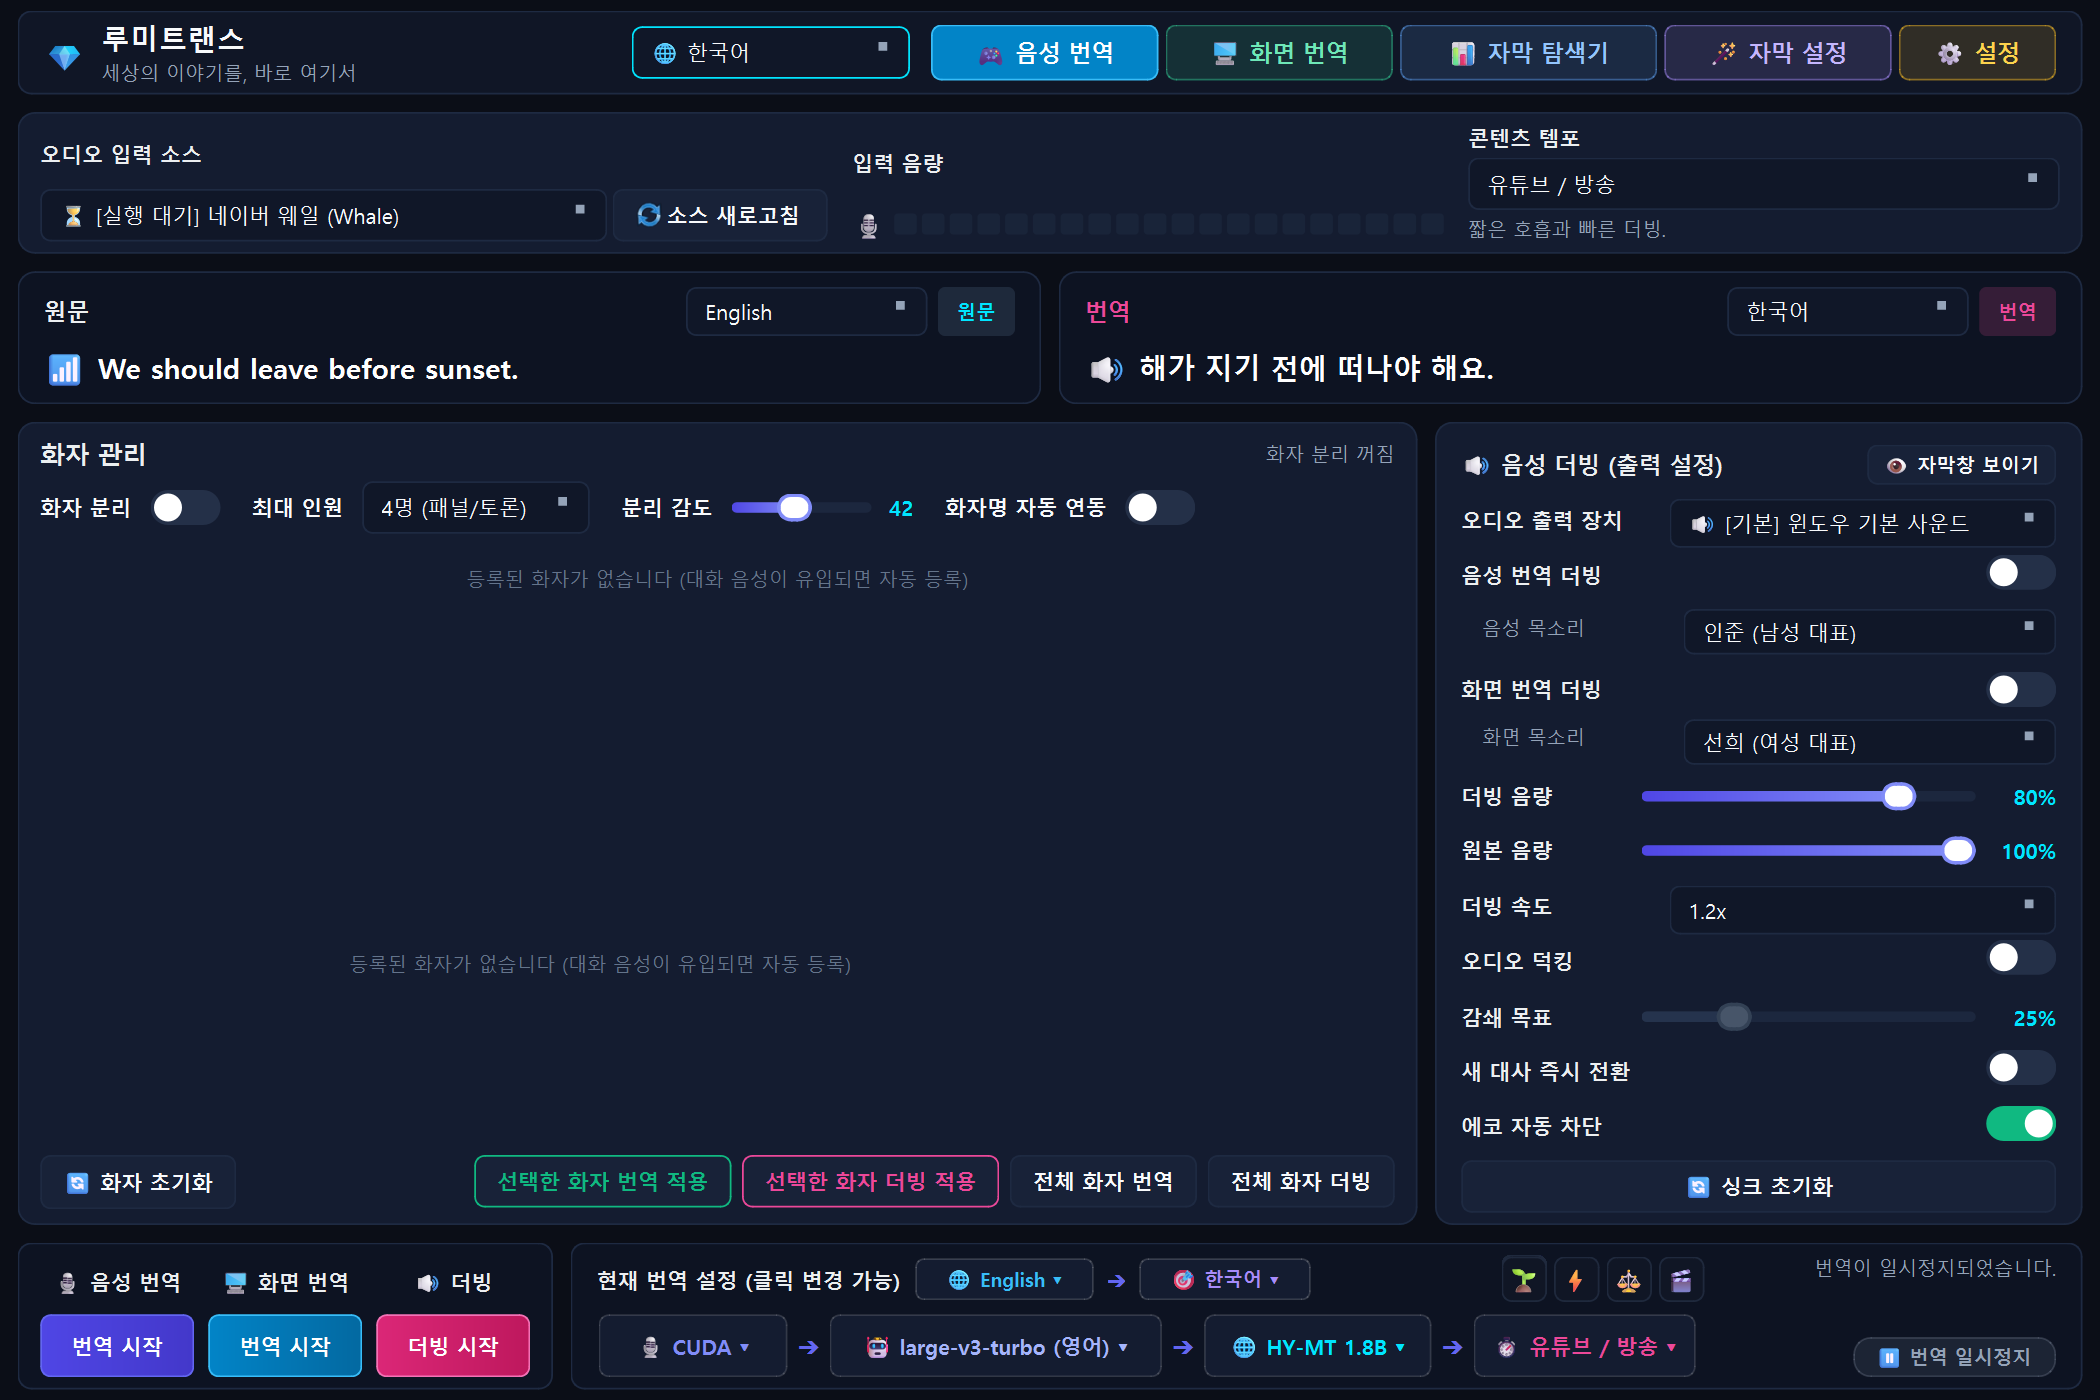
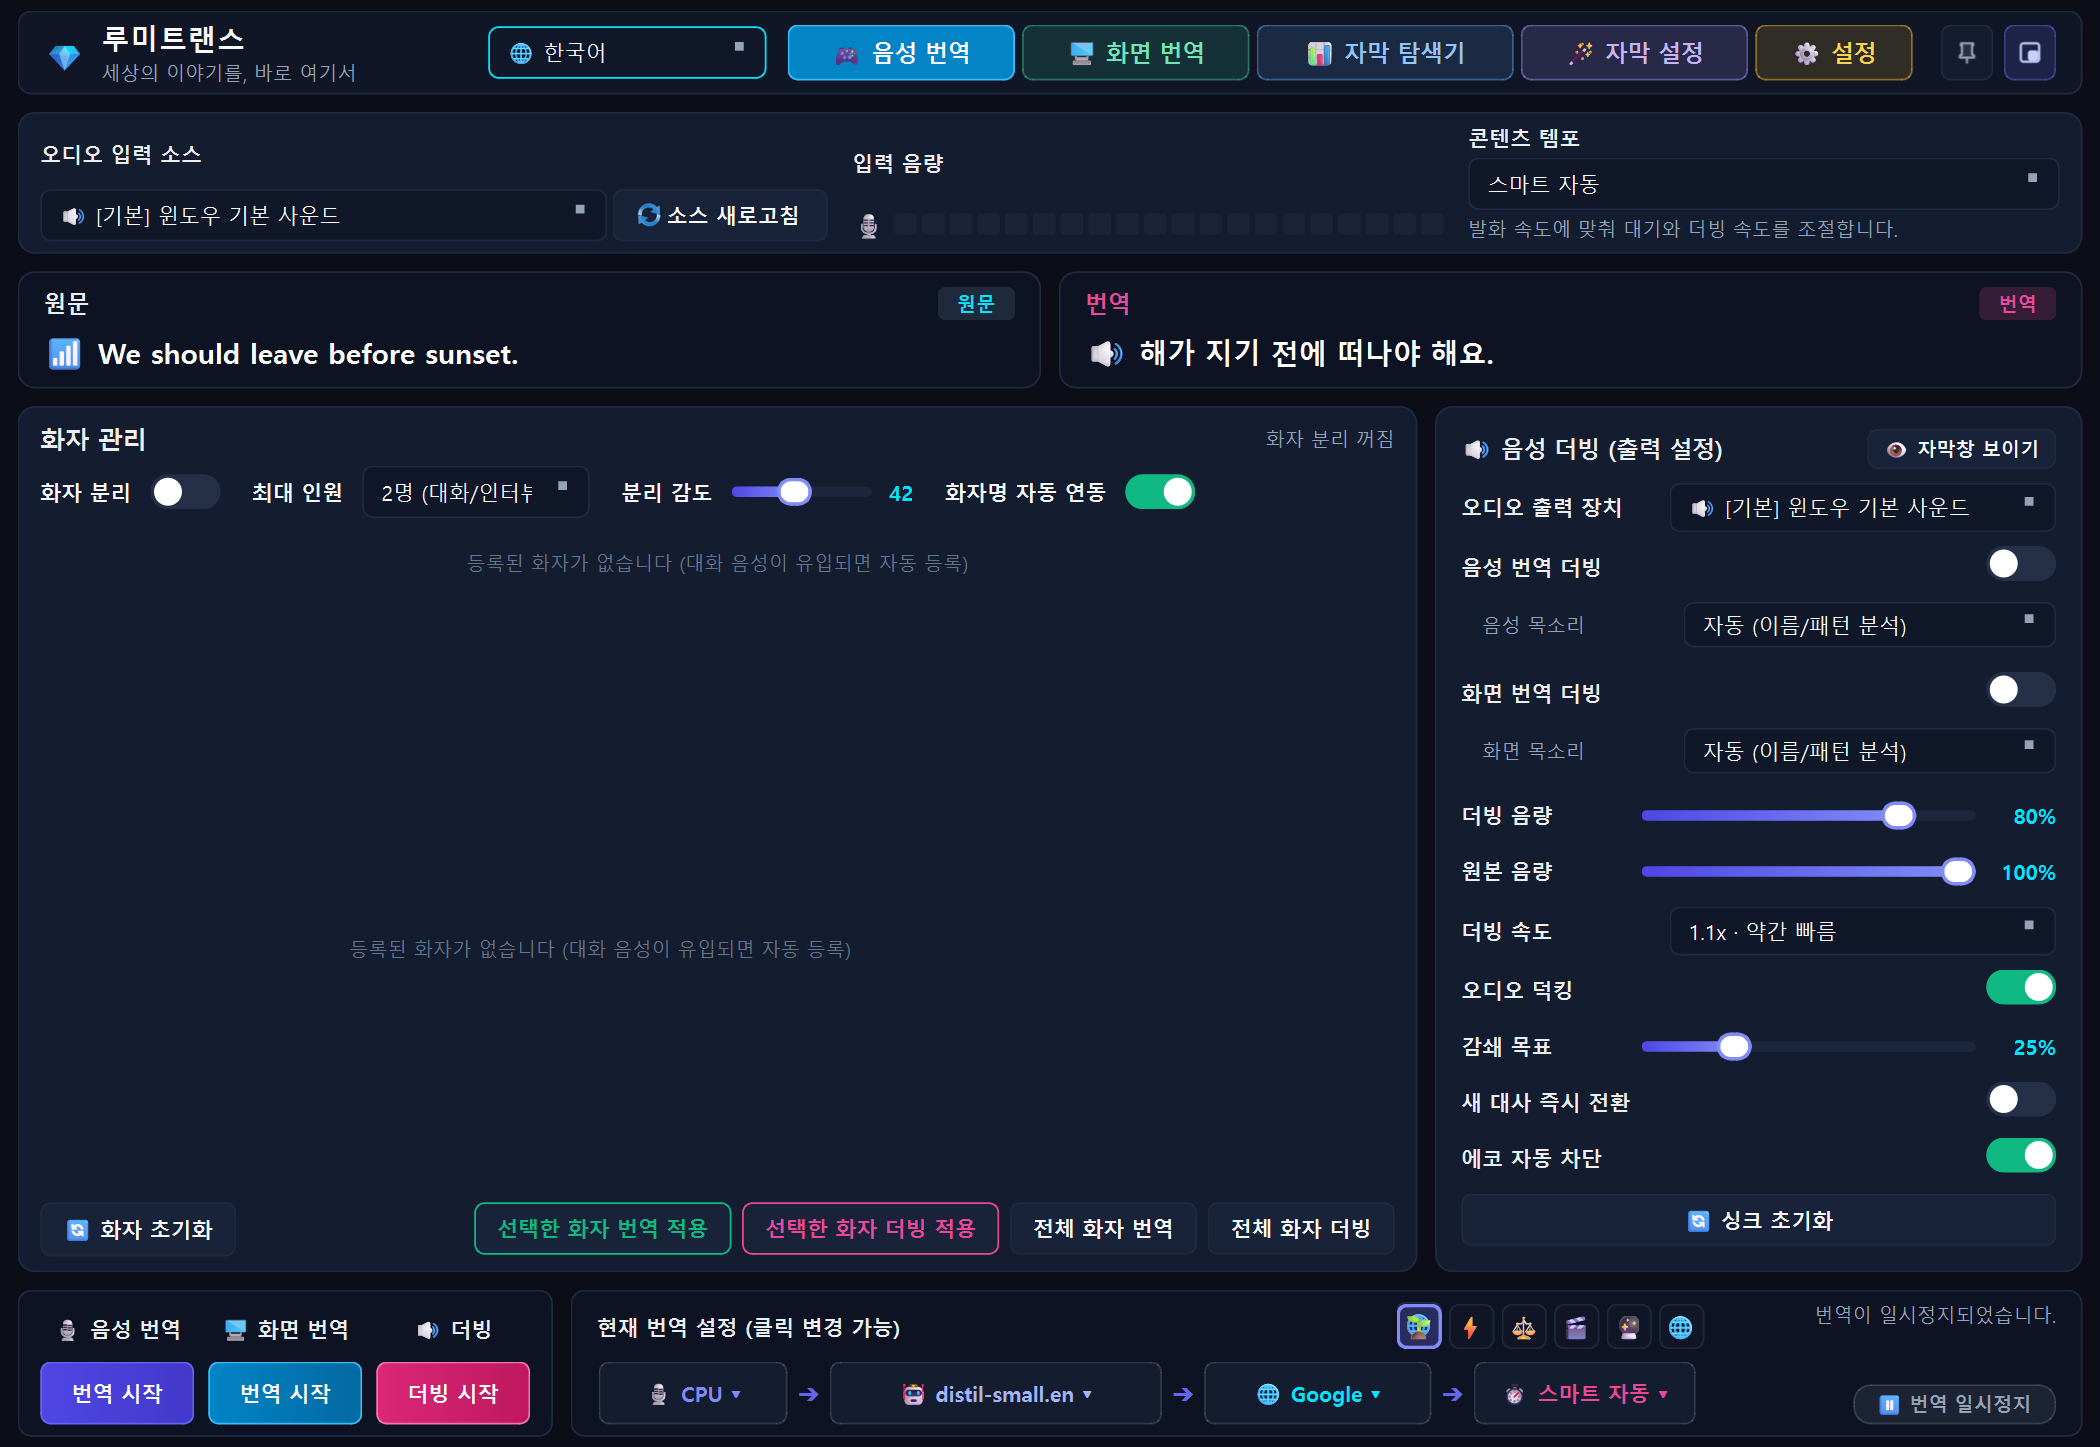
docs: v1.1.1 미니 모드 스크린샷 추가, 설치 스크립트 버전(v1.1.1) 동적화 및 문서 최신화

diff --git a/scripts/build_windows_installer.py b/scripts/build_windows_installer.py
@@ -31,6 +31,8 @@ if str(ROOT_DIR) not in sys.path:
     sys.path.insert(0, str(ROOT_DIR))
 from src.product import get_product
 
+APP_VERSION = "1.1.1"
+
 def print_step(step: str):
     print(f"\n{'=' * 60}\n>> {step}\n{'=' * 60}")
 
@@ -369,14 +371,14 @@ def run_pyinstaller(edition: str = "full", product: str = "kr"):
     )
     print(f"[PyInstaller] 최종 압축 전 번들 크기: {total_bundle_bytes / (1024 * 1024):.1f} MB")
 
-def setup_filename(edition: str, product: str = "kr") -> str:
+def setup_filename(edition: str, product: str = "kr", version: str = APP_VERSION) -> str:
     edition_cap = edition.capitalize()
     if product == "global":
-        return f"LumiTrans_Global_{edition_cap}_Setup_v1.0.0.exe"
-    return f"LumiTrans_{edition_cap}_Setup_v1.0.0.exe"
+        return f"LumiTrans_Global_{edition_cap}_Setup_v{version}.exe"
+    return f"LumiTrans_{edition_cap}_Setup_v{version}.exe"
 
 
-def run_innosetup(edition: str = "full", product: str = "kr") -> Path:
+def run_innosetup(edition: str = "full", product: str = "kr", version: str = APP_VERSION) -> Path:
     edition_cap = edition.capitalize()
     edition_label = "라이트(Lite) 에디션" if edition == "lite" else "풀(Full) 에디션"
     product_label = "글로벌" if product == "global" else "한국어"
@@ -393,7 +395,7 @@ def run_innosetup(edition: str = "full", product: str = "kr") -> Path:
     output_dir = ROOT_DIR / "installer_output"
     output_dir.mkdir(parents=True, exist_ok=True)
 
-    cmd = [iscc, f"/DEdition={edition_cap}", f"/DProduct={product}", str(iss_path)]
+    cmd = [iscc, f"/DEdition={edition_cap}", f"/DProduct={product}", f"/DMyAppVersion={version}", str(iss_path)]
     print(f"실행 명령: {' '.join(cmd)}")
     start_t = time.time()
     res = subprocess.run(cmd, cwd=str(ROOT_DIR))
@@ -403,7 +405,7 @@ def run_innosetup(edition: str = "full", product: str = "kr") -> Path:
         raise RuntimeError(f"Inno Setup 컴파일 실패 (코드: {res.returncode})")
 
     # 결과 검증
-    setup_path = output_dir / setup_filename(edition, product)
+    setup_path = output_dir / setup_filename(edition, product, version=version)
     if not setup_path.exists():
         raise FileNotFoundError(f"생성된 설치 파일이 없습니다: {setup_path}")
 
@@ -413,15 +415,18 @@ def run_innosetup(edition: str = "full", product: str = "kr") -> Path:
     print(f"[결과] 최종 설치 파일 용량: {size_mb:.2f} MB")
     return setup_path
 
-def build_single_edition(edition: str, product: str = "kr") -> Path:
+def build_single_edition(edition: str, product: str = "kr", version: str = APP_VERSION, skip_pyinstaller: bool = False) -> Path:
     edition_label = "라이트(Lite - 약 190~220MB)" if edition == "lite" else "풀(Full - 약 750~800MB)"
     product_label = "글로벌" if product == "global" else "한국어"
     print("\n" + "#" * 60)
-    print(f"### [LumiTrans] {product_label} / {edition_label} 빌드 파이프라인 가동")
+    print(f"### [LumiTrans] {product_label} / {edition_label} 빌드 파이프라인 가동 (v{version})")
     print("#" * 60)
     start_t = time.time()
-    run_pyinstaller(edition=edition, product=product)
-    out_file = run_innosetup(edition=edition, product=product)
+    if not skip_pyinstaller:
+        run_pyinstaller(edition=edition, product=product)
+    else:
+        print("[PyInstaller] --skip-pyinstaller 지정됨: 번들링 생략하고 Inno Setup만 컴파일합니다.")
+    out_file = run_innosetup(edition=edition, product=product, version=version)
     elapsed = time.time() - start_t
     print(f"\n>> [{edition.upper()}] 에디션 완료 (소요: {elapsed:.1f}초)")
     return out_file
@@ -440,26 +445,37 @@ def main():
         default=get_product(),
         help="제품 라인 (kr: 한국어, global: 글로벌). 기본값은 edition.json 설정값(현재: %(default)s)입니다.",
     )
+    parser.add_argument(
+        "--version",
+        default=APP_VERSION,
+        help=f"설치 파일 버전 (기본값: {APP_VERSION})",
+    )
+    parser.add_argument(
+        "--skip-pyinstaller",
+        action="store_true",
+        help="PyInstaller 번들링을 건너뛰고 기존 dist로 Inno Setup 컴파일만 실행합니다.",
+    )
     args = parser.parse_args()
 
     print("=" * 60)
     print(f"[BUILD] 루미트랜스 (LumiTrans) - 윈도우 설치 버전 빌드 시작")
-    print(f"[TARGET] 제품: {args.product} | 에디션: {args.edition.upper()}")
+    print(f"[TARGET] 제품: {args.product} | 에디션: {args.edition.upper()} | 버전: {args.version}")
     print("=" * 60)
 
     total_start = time.time()
-    patch_scipy_python312_bug()
-    patch_pyinstaller_sentencepiece_bug()
-    generate_icon()
-    ensure_bundled_stt_model(product=args.product)
+    if not args.skip_pyinstaller:
+        patch_scipy_python312_bug()
+        patch_pyinstaller_sentencepiece_bug()
+        generate_icon()
+        ensure_bundled_stt_model(product=args.product)
 
     built_files = []
     if args.edition in ("lite", "all"):
-        f = build_single_edition("lite", product=args.product)
+        f = build_single_edition("lite", product=args.product, version=args.version, skip_pyinstaller=args.skip_pyinstaller)
         built_files.append(("Lite", f))
 
     if args.edition in ("full", "all"):
-        f = build_single_edition("full", product=args.product)
+        f = build_single_edition("full", product=args.product, version=args.version, skip_pyinstaller=args.skip_pyinstaller)
         built_files.append(("Full", f))
 
     total_elapsed = time.time() - total_start

diff --git a/README.ko.md b/README.ko.md
@@ -57,18 +57,27 @@
 
 ## 📸 스크린샷
 
-| 음성 번역 | 화면 번역 (OCR) |
-|---|---|
-| ![음성 번역 탭](docs/images/panel-audio.png) | ![화면 번역 탭](docs/images/panel-screen.png) |
-| **자막 탐색기** | **자막 설정** |
-| ![자막 탐색기 탭](docs/images/panel-history.png) | ![자막 설정 탭](docs/images/panel-subtitles.png) |
+### 🗗 v1.1.1 신규 추가: 초소형 미니 모드 (Compact PiP UI)
+화면을 가리지 않고 필수 조작(음성 번역, 화면 번역, AI 더빙 및 음량 제어, 핀 고정)을 한 손으로 간편하게 제어합니다 (`Ctrl+M`).
+
+| 기본 모드 (상세 설정 및 네이티브 프레임) | 초소형 미니 모드 (미니멀 컨트롤러) |
+|:---:|:---:|
+| ![기본 모드 상세 패널](docs/images/panel-audio.png) | ![초소형 미니 모드](docs/images/panel-mini-mode.png) |
 
 <details>
-<summary>더 보기: 설정 탭 · 화면 번역 오버레이</summary>
+<summary>기타 탭 및 오버레이 화면 보기</summary>
 
-![설정 탭](docs/images/panel-settings.png)
+| 화면 번역 (OCR) | 자막 탐색기 |
+|:---:|:---:|
+| ![화면 번역 탭](docs/images/panel-screen.png) | ![자막 탐색기 탭](docs/images/panel-history.png) |
 
-![화면 번역 오버레이](docs/images/overlay-screen.jpg)
+| 자막 설정 | 환경 설정 탭 |
+|:---:|:---:|
+| ![자막 설정 탭](docs/images/panel-subtitles.png) | ![설정 탭](docs/images/panel-settings.png) |
+
+| 화면 번역 오버레이 |
+|:---:|
+| ![화면 번역 오버레이](docs/images/overlay-screen.jpg) |
 
 </details>
 
@@ -80,10 +89,10 @@
 
 | 에디션 | 파일명 | 크기 | 권장 환경 및 특징 |
 |---|---|---|---|
-| **Korean Lite** | `LumiTrans_Lite_Setup_v1.0.0.exe` | 약 194MB | 한국어 특화 가벼운 패키지 (모델은 첫 실행 시 자동 다운로드) |
-| **Korean Full** | `LumiTrans_Full_Setup_v1.0.0.exe` | 약 790MB | 한국어 오프라인 STT 모델 및 CUDA 12 가속 라이브러리 기본 내장 |
-| **Global Lite** | `LumiTrans_Global_Lite_Setup_v1.0.0.exe` | 약 194MB | 15개국 다국어 UI 지원 글로벌 에디션 (첫 실행 시 모델 다운로드) |
-| **Global Full** | `LumiTrans_Global_Full_Setup_v1.0.0.exe` | 약 968MB | 15개국 다국어 UI + 다국어 STT 모델 + CUDA 12 가속 라이브러리 완전 내장 |
+| **Korean Lite** | `LumiTrans_Lite_Setup_v1.1.1.exe` | 약 194MB | 한국어 특화 가벼운 패키지 (모델은 첫 실행 시 자동 다운로드) |
+| **Korean Full** | `LumiTrans_Full_Setup_v1.1.1.exe` | 약 790MB | 한국어 오프라인 STT 모델 및 CUDA 12 가속 라이브러리 기본 내장 |
+| **Global Lite** | `LumiTrans_Global_Lite_Setup_v1.1.1.exe` | 약 194MB | 15개국 다국어 UI 지원 글로벌 에디션 (첫 실행 시 모델 다운로드) |
+| **Global Full** | `LumiTrans_Global_Full_Setup_v1.1.1.exe` | 약 923MB | 15개국 다국어 UI + 다국어 STT 모델 + CUDA 12 가속 라이브러리 완전 내장 |
 
 ---
 

diff --git a/README.md b/README.md
@@ -57,18 +57,27 @@ LumiTrans is an all-in-one standalone desktop application that **listens to PC a
 
 ## 📸 Screenshots
 
-| Audio Translation | Screen Translation (OCR) |
-|---|---|
-| ![Audio translation tab](docs/images/panel-audio.png) | ![Screen translation tab](docs/images/panel-screen.png) |
-| **Subtitle Explorer** | **Subtitle Style** |
-| ![Subtitle explorer tab](docs/images/panel-history.png) | ![Subtitle style tab](docs/images/panel-subtitles.png) |
+### 🗗 New in v1.1.1: Ultra-Compact Mini Mode (PiP UI)
+Unobtrusive compact control designed to stay on top of games, videos, and calls without blocking content. One-click access to voice/screen translation, AI dubbing volume, and pin controls (`Ctrl+M`).
+
+| Full Mode (Settings & Native Frame) | Ultra-Compact Mini Mode (PiP Controller) |
+|:---:|:---:|
+| ![Full Control Panel](docs/images/panel-audio.png) | ![Ultra-Compact Mini Mode](docs/images/panel-mini-mode.png) |
 
 <details>
-<summary>More: Settings Tab &amp; Screen Translation Overlay</summary>
+<summary>More: Tabs &amp; Overlay Screenshots</summary>
 
-![Settings tab](docs/images/panel-settings.png)
+| Screen Translation (OCR) | Subtitle Explorer |
+|:---:|:---:|
+| ![Screen translation tab](docs/images/panel-screen.png) | ![Subtitle explorer tab](docs/images/panel-history.png) |
 
-![Screen translation overlay](docs/images/overlay-screen.jpg)
+| Subtitle Style | Settings Tab |
+|:---:|:---:|
+| ![Subtitle style tab](docs/images/panel-subtitles.png) | ![Settings tab](docs/images/panel-settings.png) |
+
+| Screen Translation Overlay |
+|:---:|
+| ![Screen translation overlay](docs/images/overlay-screen.jpg) |
 
 </details>
 
@@ -80,10 +89,10 @@ Prebuilt Windows installers are available on the [GitHub Releases](https://githu
 
 | Edition | File Name | Size | Recommendation & Features |
 |---|---|---|---|
-| **Korean Lite** | `LumiTrans_Lite_Setup_v1.0.0.exe` | ~194 MB | Korean-optimized lightweight installer (models download on first run) |
-| **Korean Full** | `LumiTrans_Full_Setup_v1.0.0.exe` | ~790 MB | Includes Korean offline STT model & CUDA 12 acceleration libraries |
-| **Global Lite** | `LumiTrans_Global_Lite_Setup_v1.0.0.exe` | ~194 MB | 15-language global edition (models download on first run) |
-| **Global Full** | `LumiTrans_Global_Full_Setup_v1.0.0.exe` | ~968 MB | 15-language global edition + multilingual STT models + CUDA 12 bundled |
+| **Korean Lite** | `LumiTrans_Lite_Setup_v1.1.1.exe` | ~194 MB | Korean-optimized lightweight installer (models download on first run) |
+| **Korean Full** | `LumiTrans_Full_Setup_v1.1.1.exe` | ~790 MB | Includes Korean offline STT model & CUDA 12 acceleration libraries |
+| **Global Lite** | `LumiTrans_Global_Lite_Setup_v1.1.1.exe` | ~194 MB | 15-language global edition (models download on first run) |
+| **Global Full** | `LumiTrans_Global_Full_Setup_v1.1.1.exe` | ~923 MB | 15-language global edition + multilingual STT models + CUDA 12 bundled |
 
 ---
 
